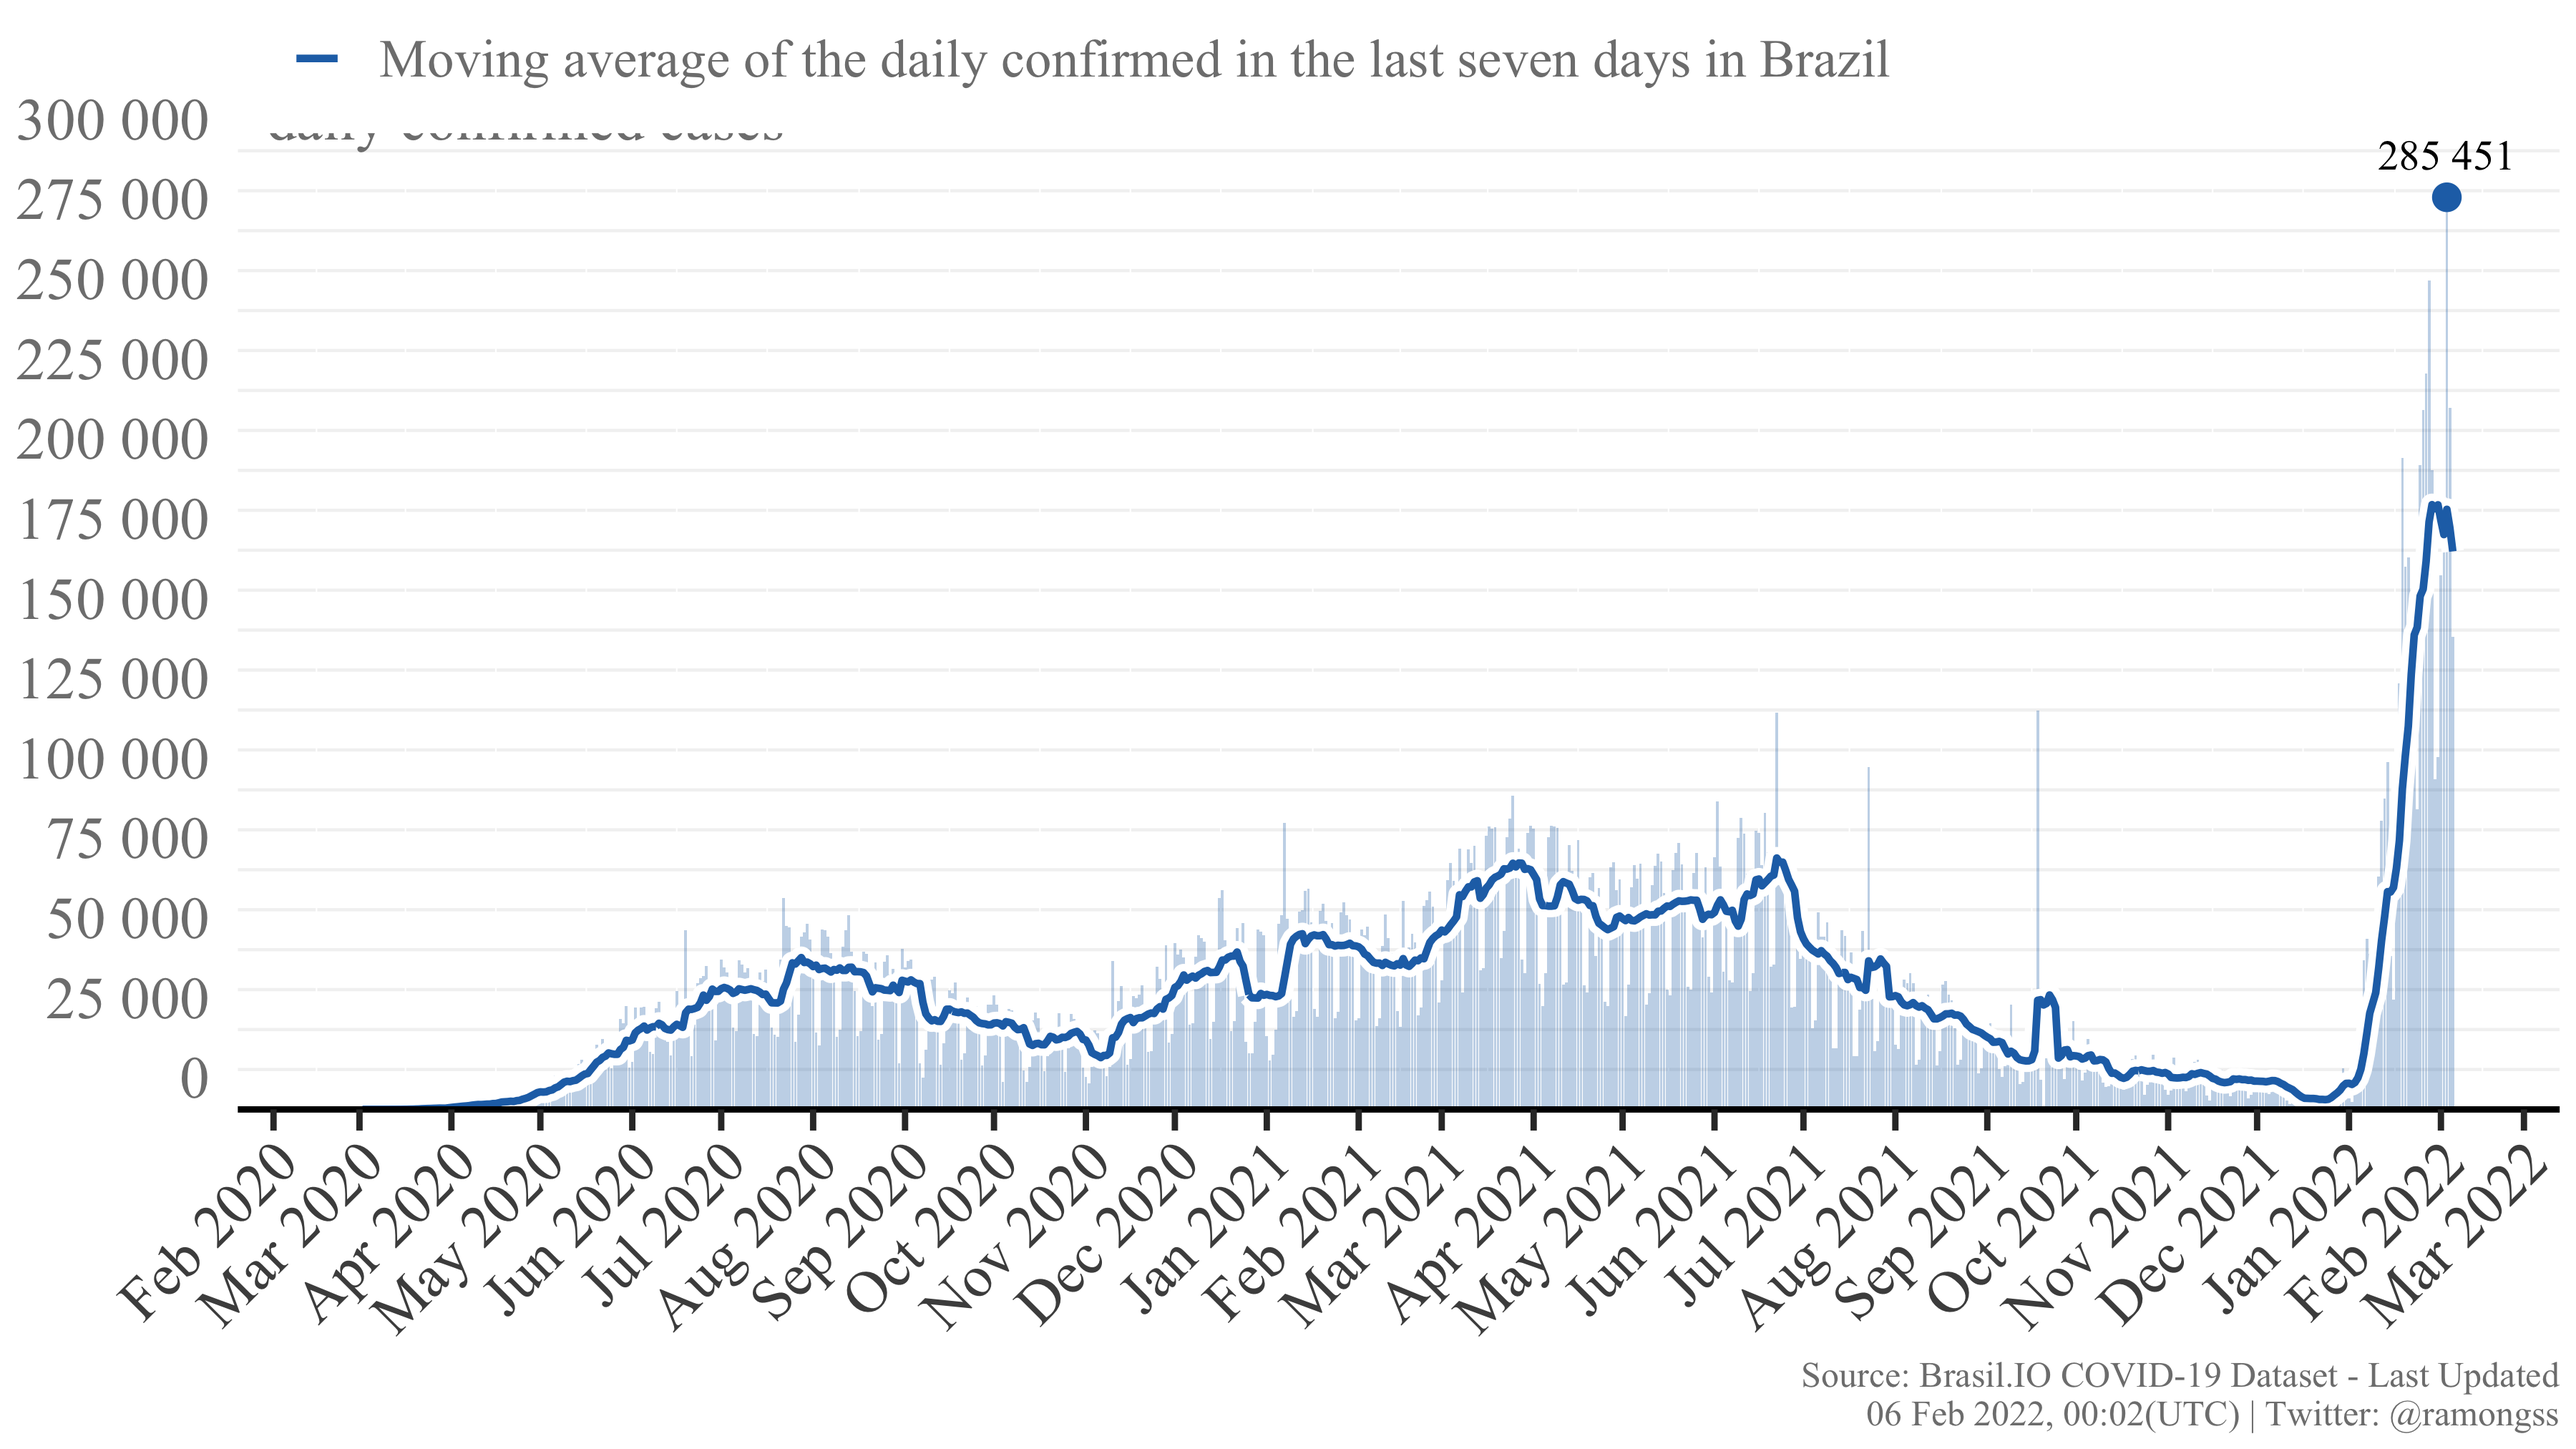
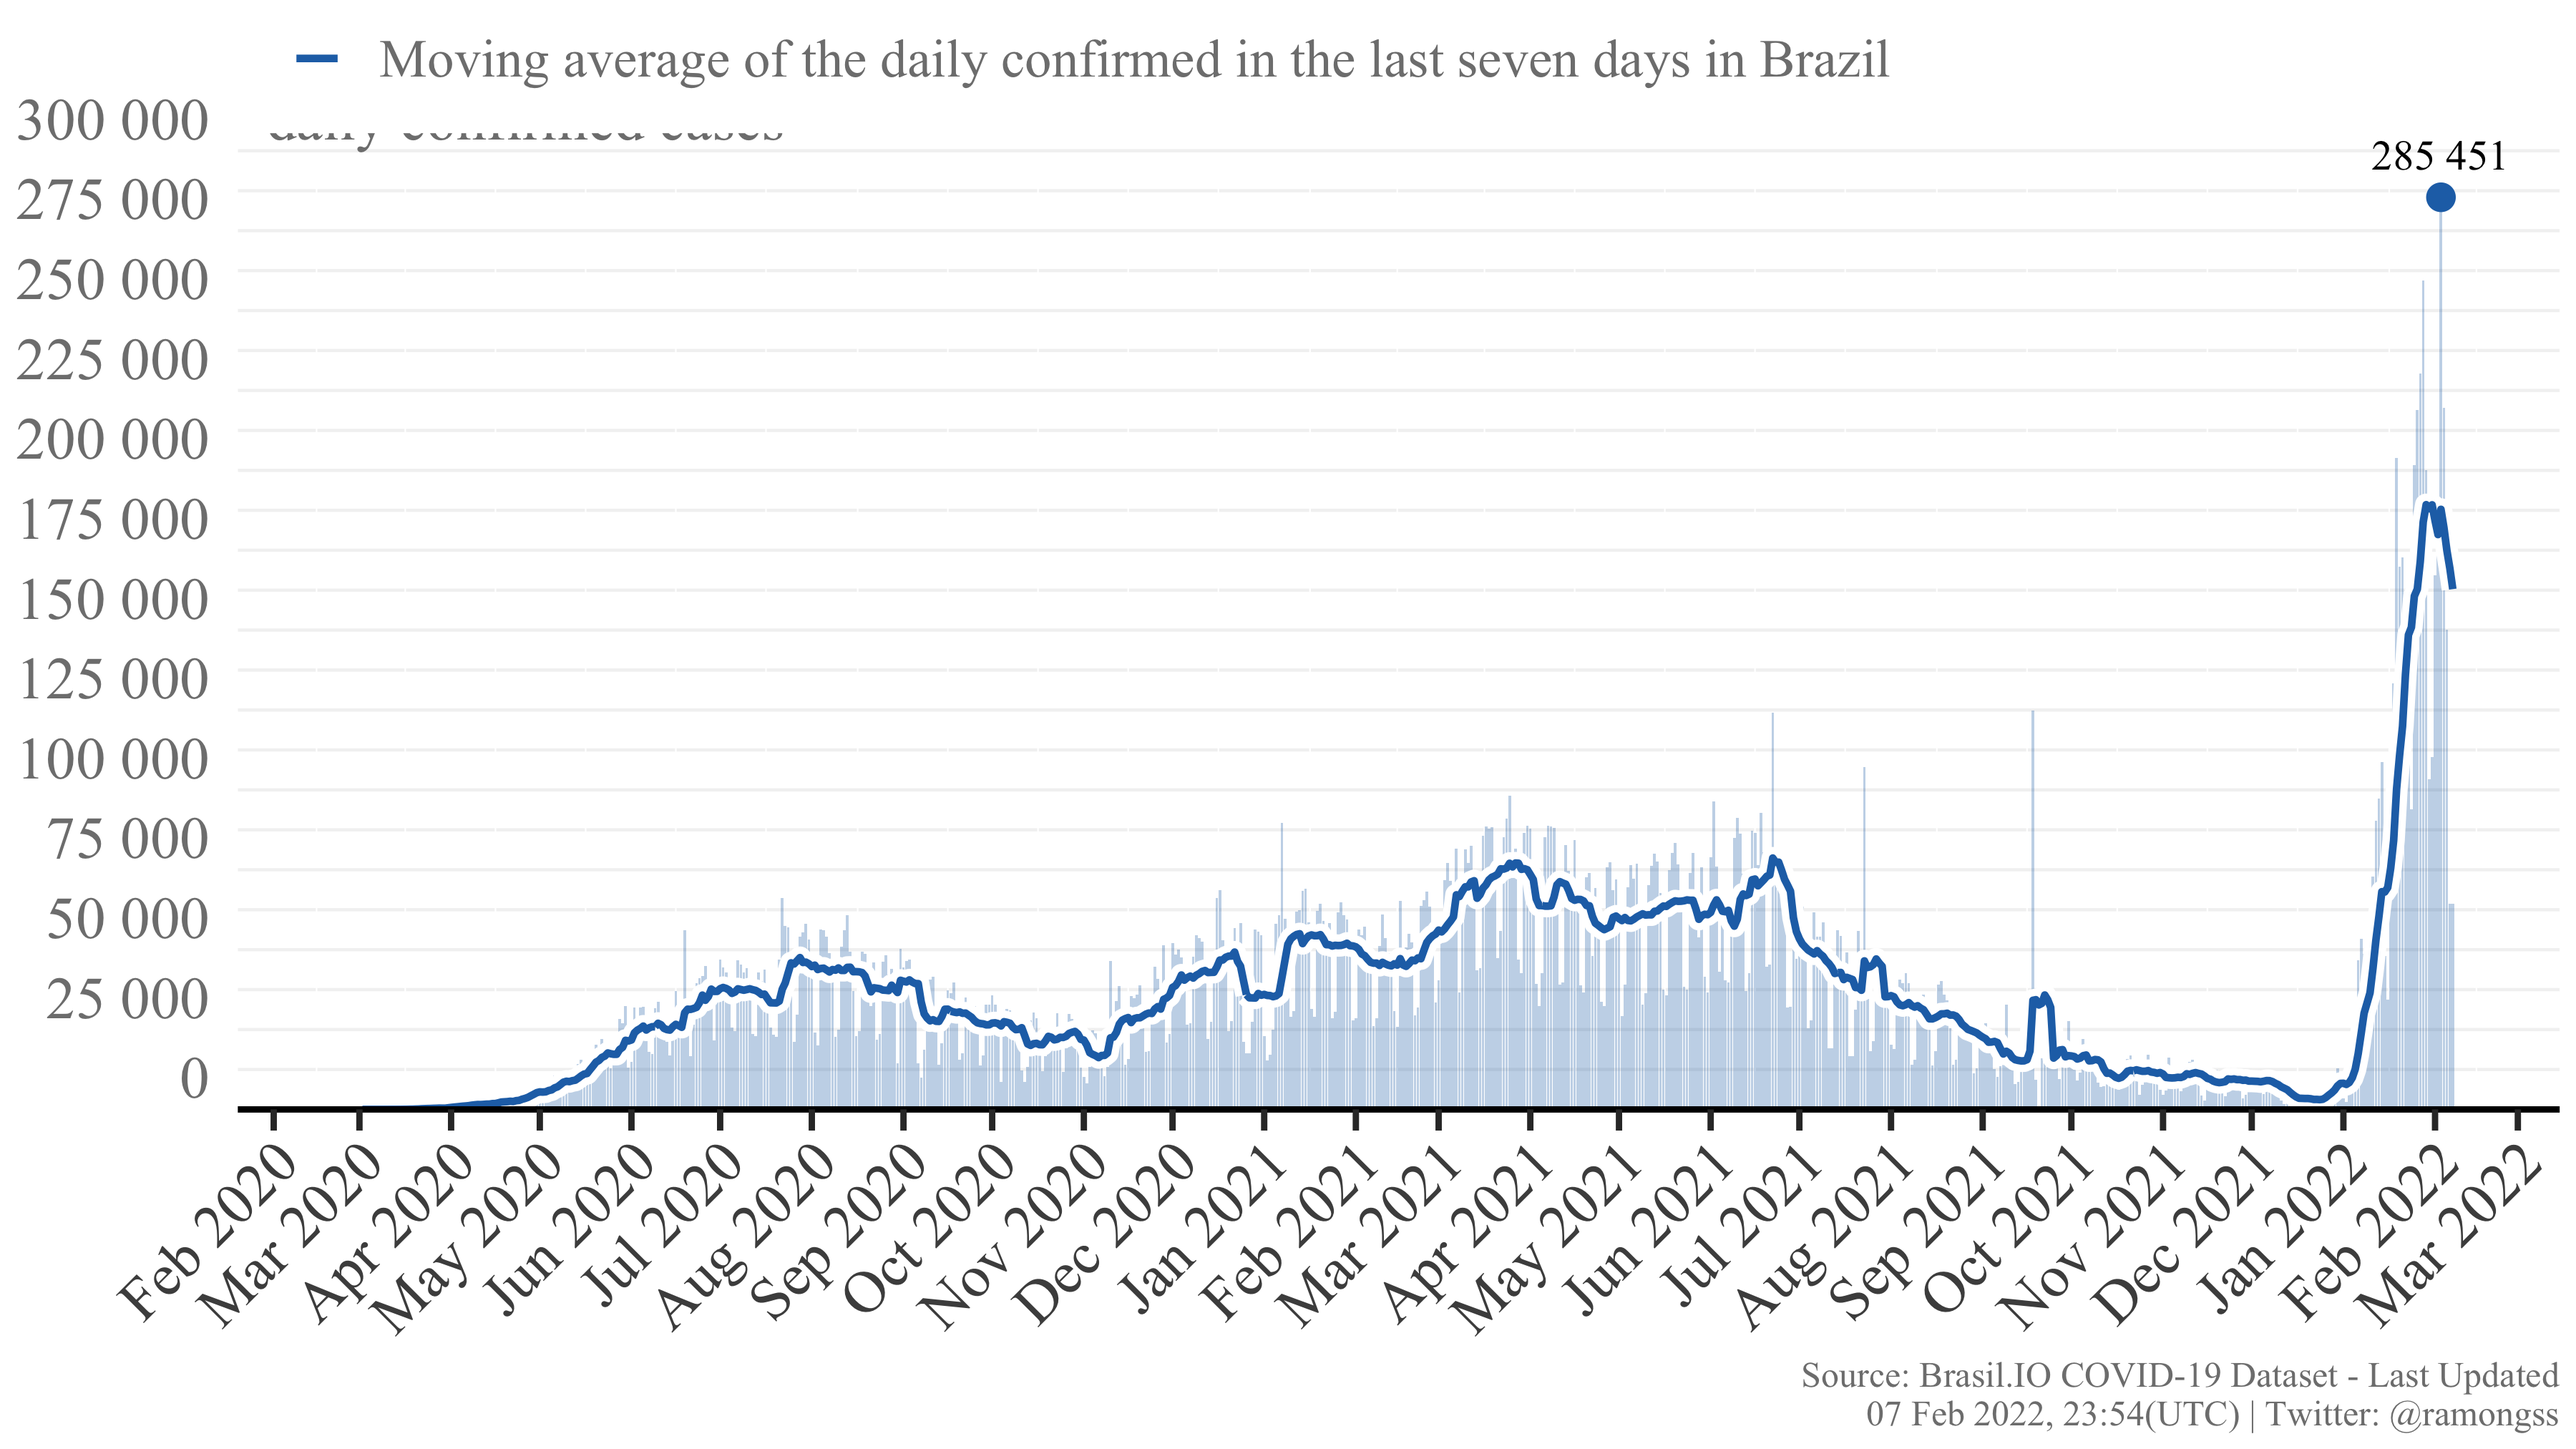
Re-build README.Rmd

diff --git a/README.md b/README.md
@@ -27,8 +27,8 @@ download_brasilio_table <- function(dataset = "covid19", table_name){
 
 ## COVID-19 Confirmed cases
 
-Currently, Brazil has a total of **26,483,555** confirmed cases at **05
-Feb, 2022**, with **147,962** new confirmed cases. The daily maximum
+Currently, Brazil has a total of **26,614,669** confirmed cases at **07
+Feb, 2022**, with **64,458** new confirmed cases. The daily maximum
 incidence was **285,451** confirmed cases at **03 Feb, 2022**. Here
 follows the Figure showing the confirmed case incidence as the bars, and
 the line as the moving average of the last 7 days.
@@ -37,8 +37,8 @@ the line as the moving average of the last 7 days.
 
 ## COVID-19 Deaths
 
-Currently, Brazil has a total of **632,095** deaths at **05 Feb, 2022**,
-with **793** new deaths. The daily maximum deaths incidence was
+Currently, Brazil has a total of **632,946** deaths at **07 Feb, 2022**,
+with **393** new deaths. The daily maximum deaths incidence was
 **4,148** deaths at **08 Apr, 2021**. Here follows the Figure showing
 the deaths incidence as the bars, and the line as the moving average of
 the last 7 days.
@@ -49,4 +49,4 @@ the last 7 days.
 
 This page is daily updated automatically using Github Actions.
 
-*Last update: 06 Feb 2022, 00:02 (UTC).*
+*Last update: 07 Feb 2022, 23:54 (UTC).*
